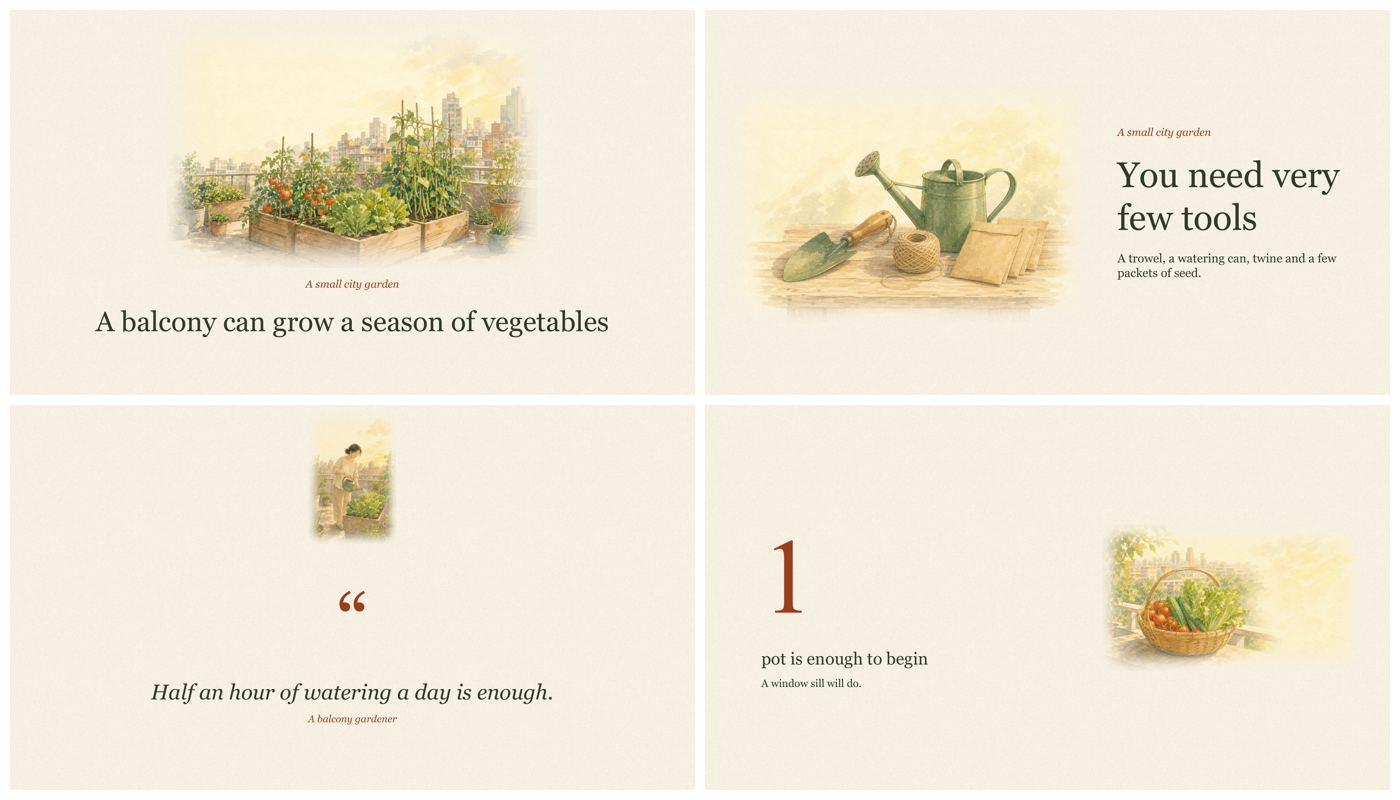
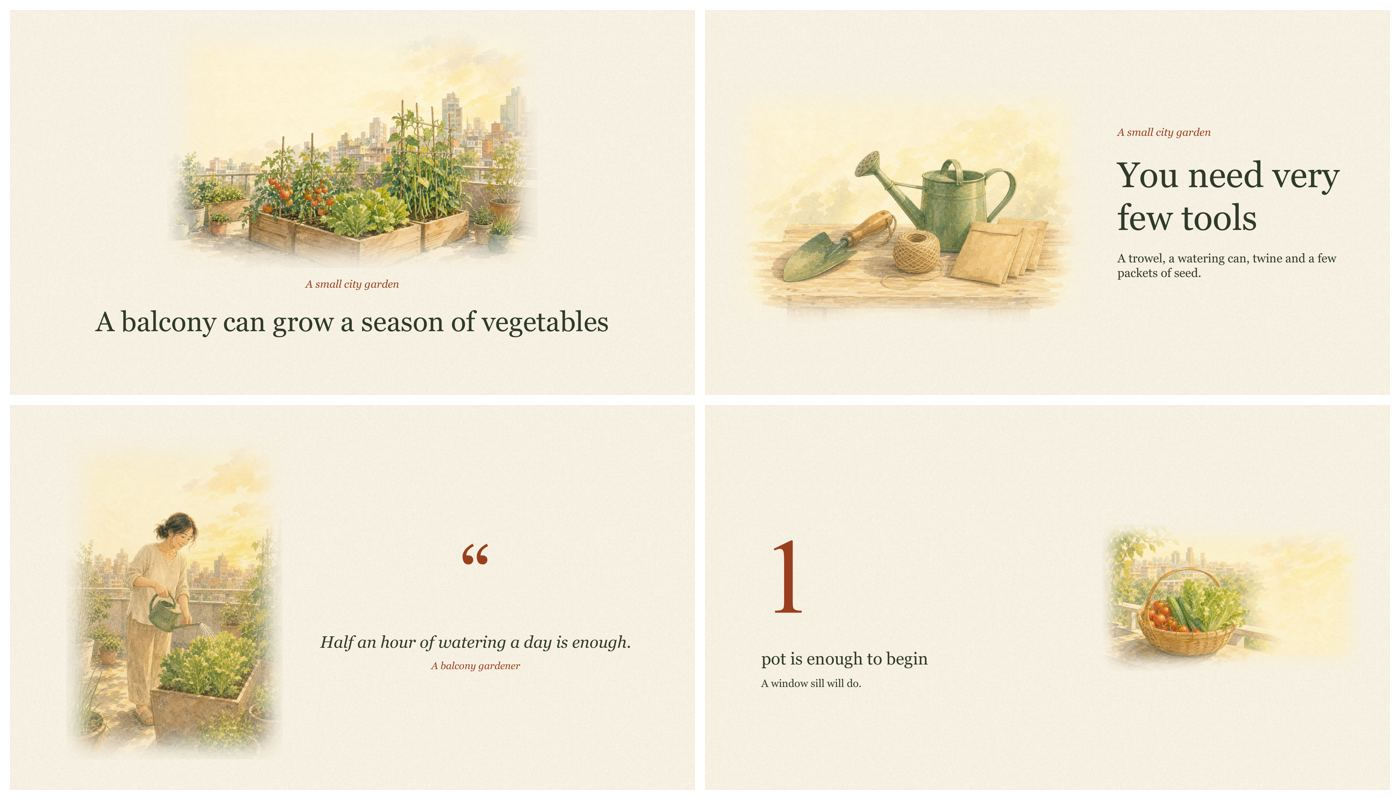
samples: a fingerprint per bundled sample, checked against the code; rebuilt the stale storybook pair and the poster pair

Changed region(s): [[0.0307, 0.5312, 0.4607, 0.9375], [0.3071, 0.6875, 0.3686, 0.7188]]

diff --git a/skills/slide-maker/tests/test_visual_languages.py b/skills/slide-maker/tests/test_visual_languages.py
@@ -1,7 +1,7 @@
 #!/usr/bin/env python3
 """visual_languages: four complete looks — data, fonts per platform AND per script, contrast, register contracts, page compositions on every canvas and language."""
 from __future__ import annotations
-import sys, tempfile
+import contextlib, io, sys, tempfile
 from pathlib import Path
 ROOT = Path(__file__).resolve().parent.parent
 sys.path.insert(0, str(ROOT / "scripts"))
@@ -579,6 +579,24 @@ ah.build_directions_html([bad_] + pres, str(_htd / "bad.html"))
 check("javascript:" not in (_htd / "bad.html").read_text(encoding="utf-8"), "a non-image sample is dropped")
 for n_ in vl.LANGS:
     check(vl.direction(n_)["name"], "{} has a direction".format(n_))
+
+# ── the bundled samples are FRESH: each JPG was rendered from the deck today's code builds (final review) ──
+import json as _json, hashlib as _hl
+_man = A / "samples" / "manifest.json"
+if sys.platform != "darwin":
+    print("  skip sample freshness: samples are built and fingerprinted on macOS (other platforms measure fonts differently)")
+else:
+    check(_man.exists(), "assets/vl/samples/manifest.json records which deck each sample was rendered from")
+    _rec = _json.loads(_man.read_text(encoding="utf-8")) if _man.exists() else {}
+    _ftd = Path(tempfile.mkdtemp())
+    for n_ in vl.LANGS:
+        for g_ in vl.VARIANTS[n_]:
+            stem = vl._sample_stem(n_, g_)
+            with contextlib.redirect_stdout(io.StringIO()):
+                p_ = vl.build_sample(n_, str(_ftd), ground=g_)
+            check(_rec.get(stem) == vl.sample_fingerprint(p_),
+                  "sample {}.jpg is current with the code that builds it — else rebuild: python3 scripts/"
+                  "visual_languages.py --sample <dir>, then the NEXT/then lines it prints".format(stem))
 
 # ── Task 11: the reference names what the code does ──
 _ref = (ROOT / "references" / "visual-languages.md")
